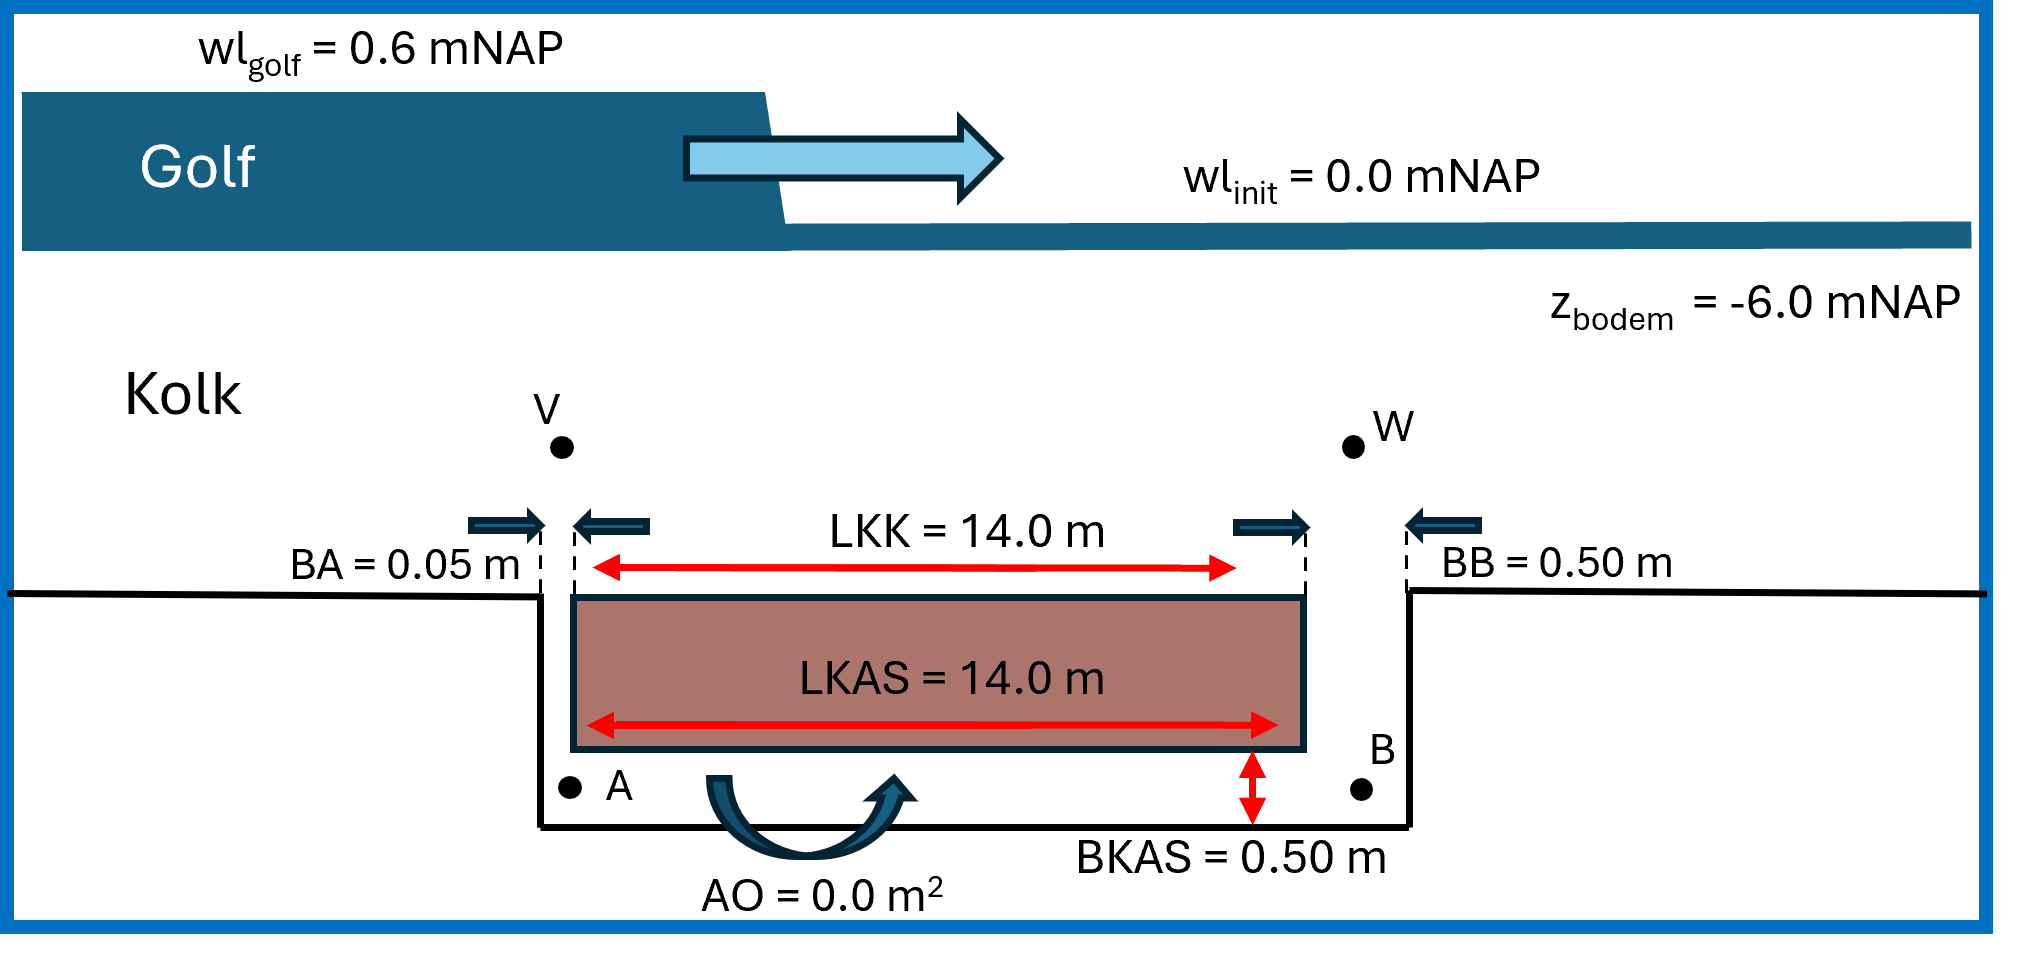
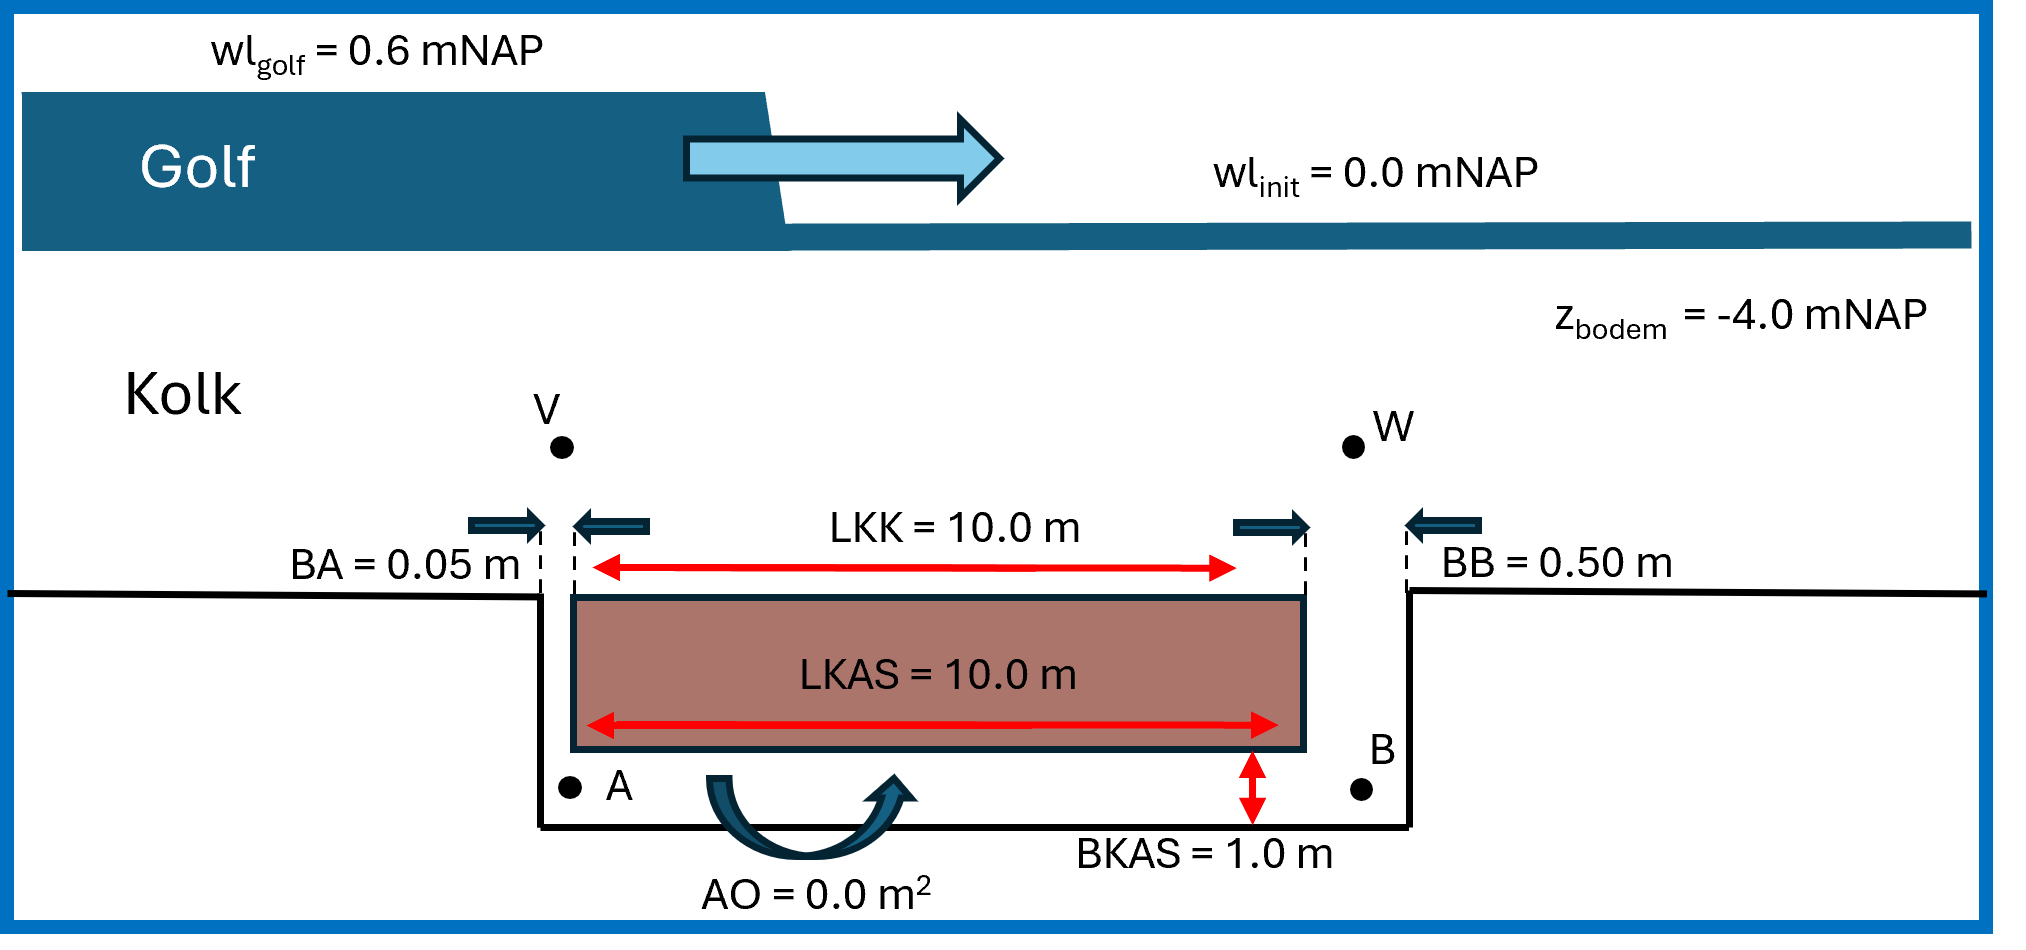
Test_impl_mu

diff --git a/docs/source/example.rst b/docs/source/example.rst
@@ -6,6 +6,7 @@
 
 Example: Simple lock with schematized wave
 ===========
-This example demonstrates the capability of the KASGOLF code by applying it to an hypothetical scenario. An overview of the lock and lockgate can be found in the figure below. The simulation starts at time t=-6.0 [s] with a time step of 0.02 [s]. A wave arrives at location A at time t=0 [s] and propagates to B with the propagation velocity of the translatory wave (linear wave theory). it is assumed that there is no horizontal opening present underneath the gate.
+This example demonstrates the capability of the KASGOLF code by applying it to an hypothetical scenario. An overview of the lock and lockgate can be found in the figure below. The simulation starts at time t=-6.0 [s] with a time step of 0.02 [s]. A wave arrives at location A at time t=0 [s] and propagates to B with the propagation velocity of the translatory wave (linear wave theory). It is assumed that there is no horizontal opening underneath the gate and the friction coefficient (:math:`\mu`) equals 0.70 [-].
 
 .. image:: ../images/example_berekening.png
+

diff --git a/docs/source/theory.rst b/docs/source/theory.rst
@@ -21,3 +21,9 @@ For the calculation of these waterlevels, the length of the gate is divided in 1
 To run a simulation with KASGOLF, the water depth of the lock and the dimensions of the gate, gate recess and openings need to be inserted in the model. The wave height can be inserted as a time array. For the wave propagation velocity in the lock chamber the user of the model can choose between the propagation velocity of the translatory wave or the sailing velocity of the ship. The propagation velocity of the translatory wave is based on linear wave theory. When chosen for the second option, the wave propagation velocity for the lock chamber can differ for that in the gate recess.
 
 .. image:: ../images/overzicht_kas_kolk.png
+
+.. note::
+
+   As can be seen in the figure above, instability occurs in the calculated hydraulic head. This is numerical instability from the code caused by the iteration of the discharge and waterheight of the translatory wave. Later in this documentation this instability will be analysed.
+
+##################

diff --git a/docs/source/index.rst b/docs/source/index.rst
@@ -48,6 +48,7 @@ Literature
    example
    tutorial
    code
+   sensitivity-analysis
    support
 
 WINDGOLF
